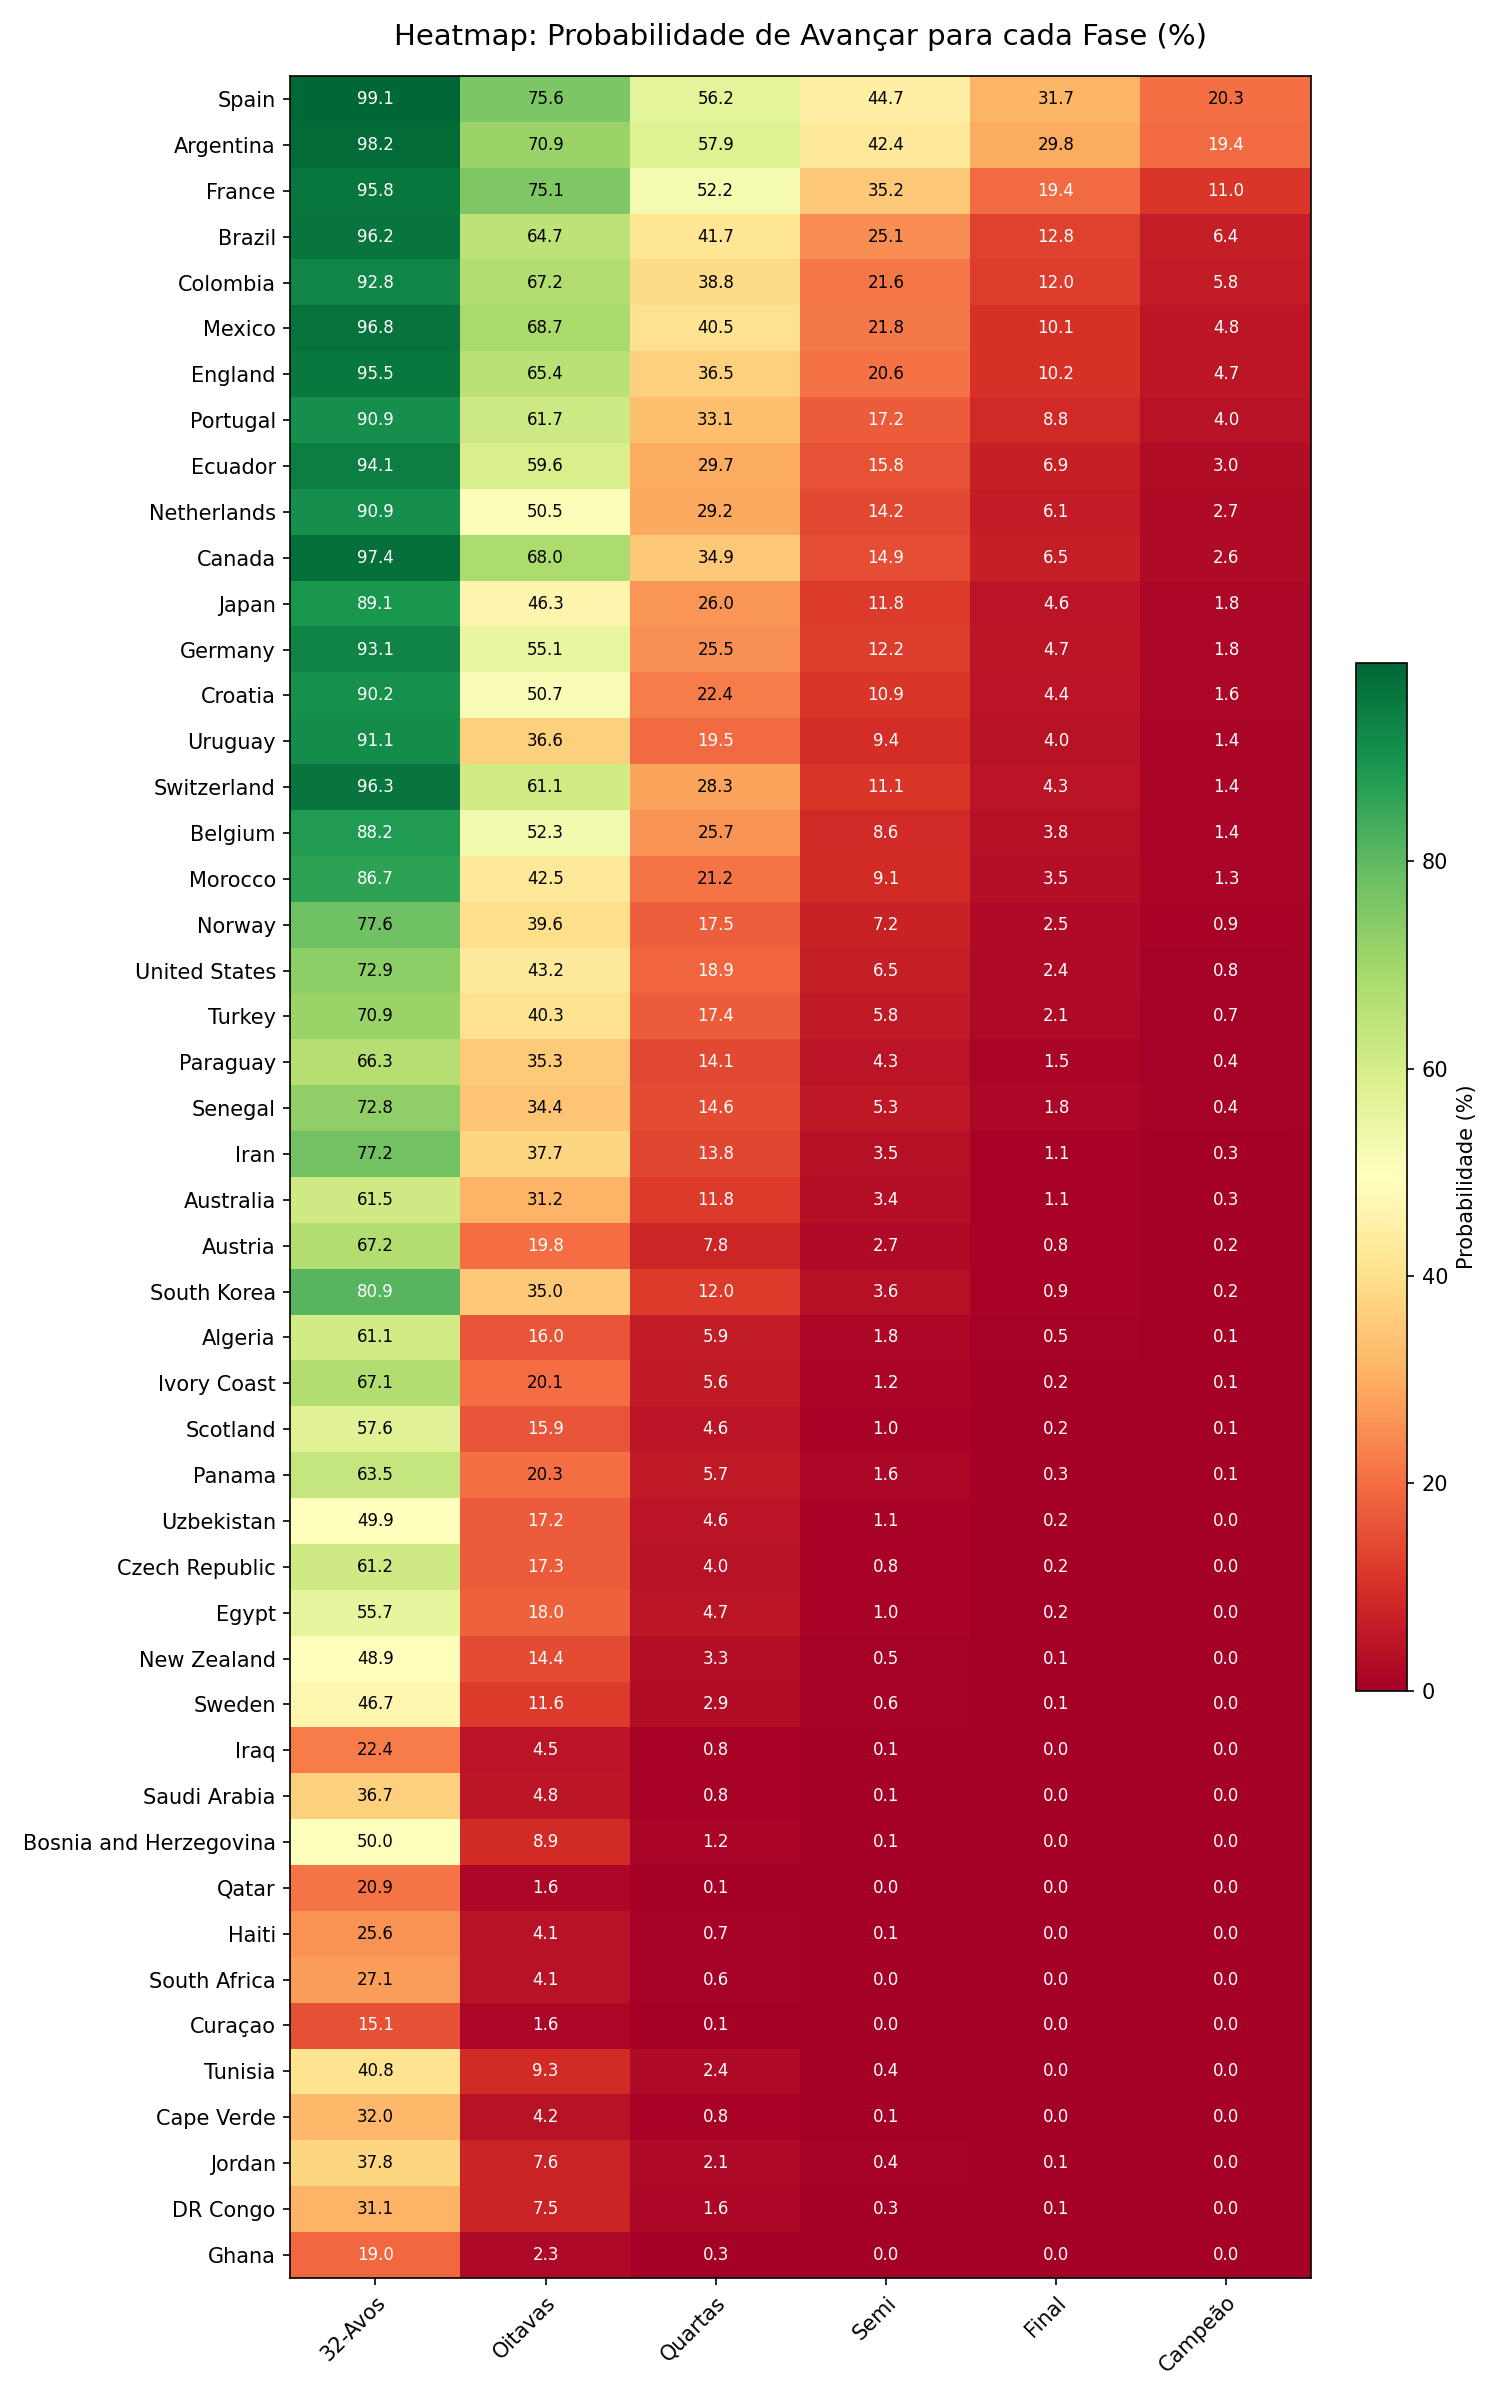
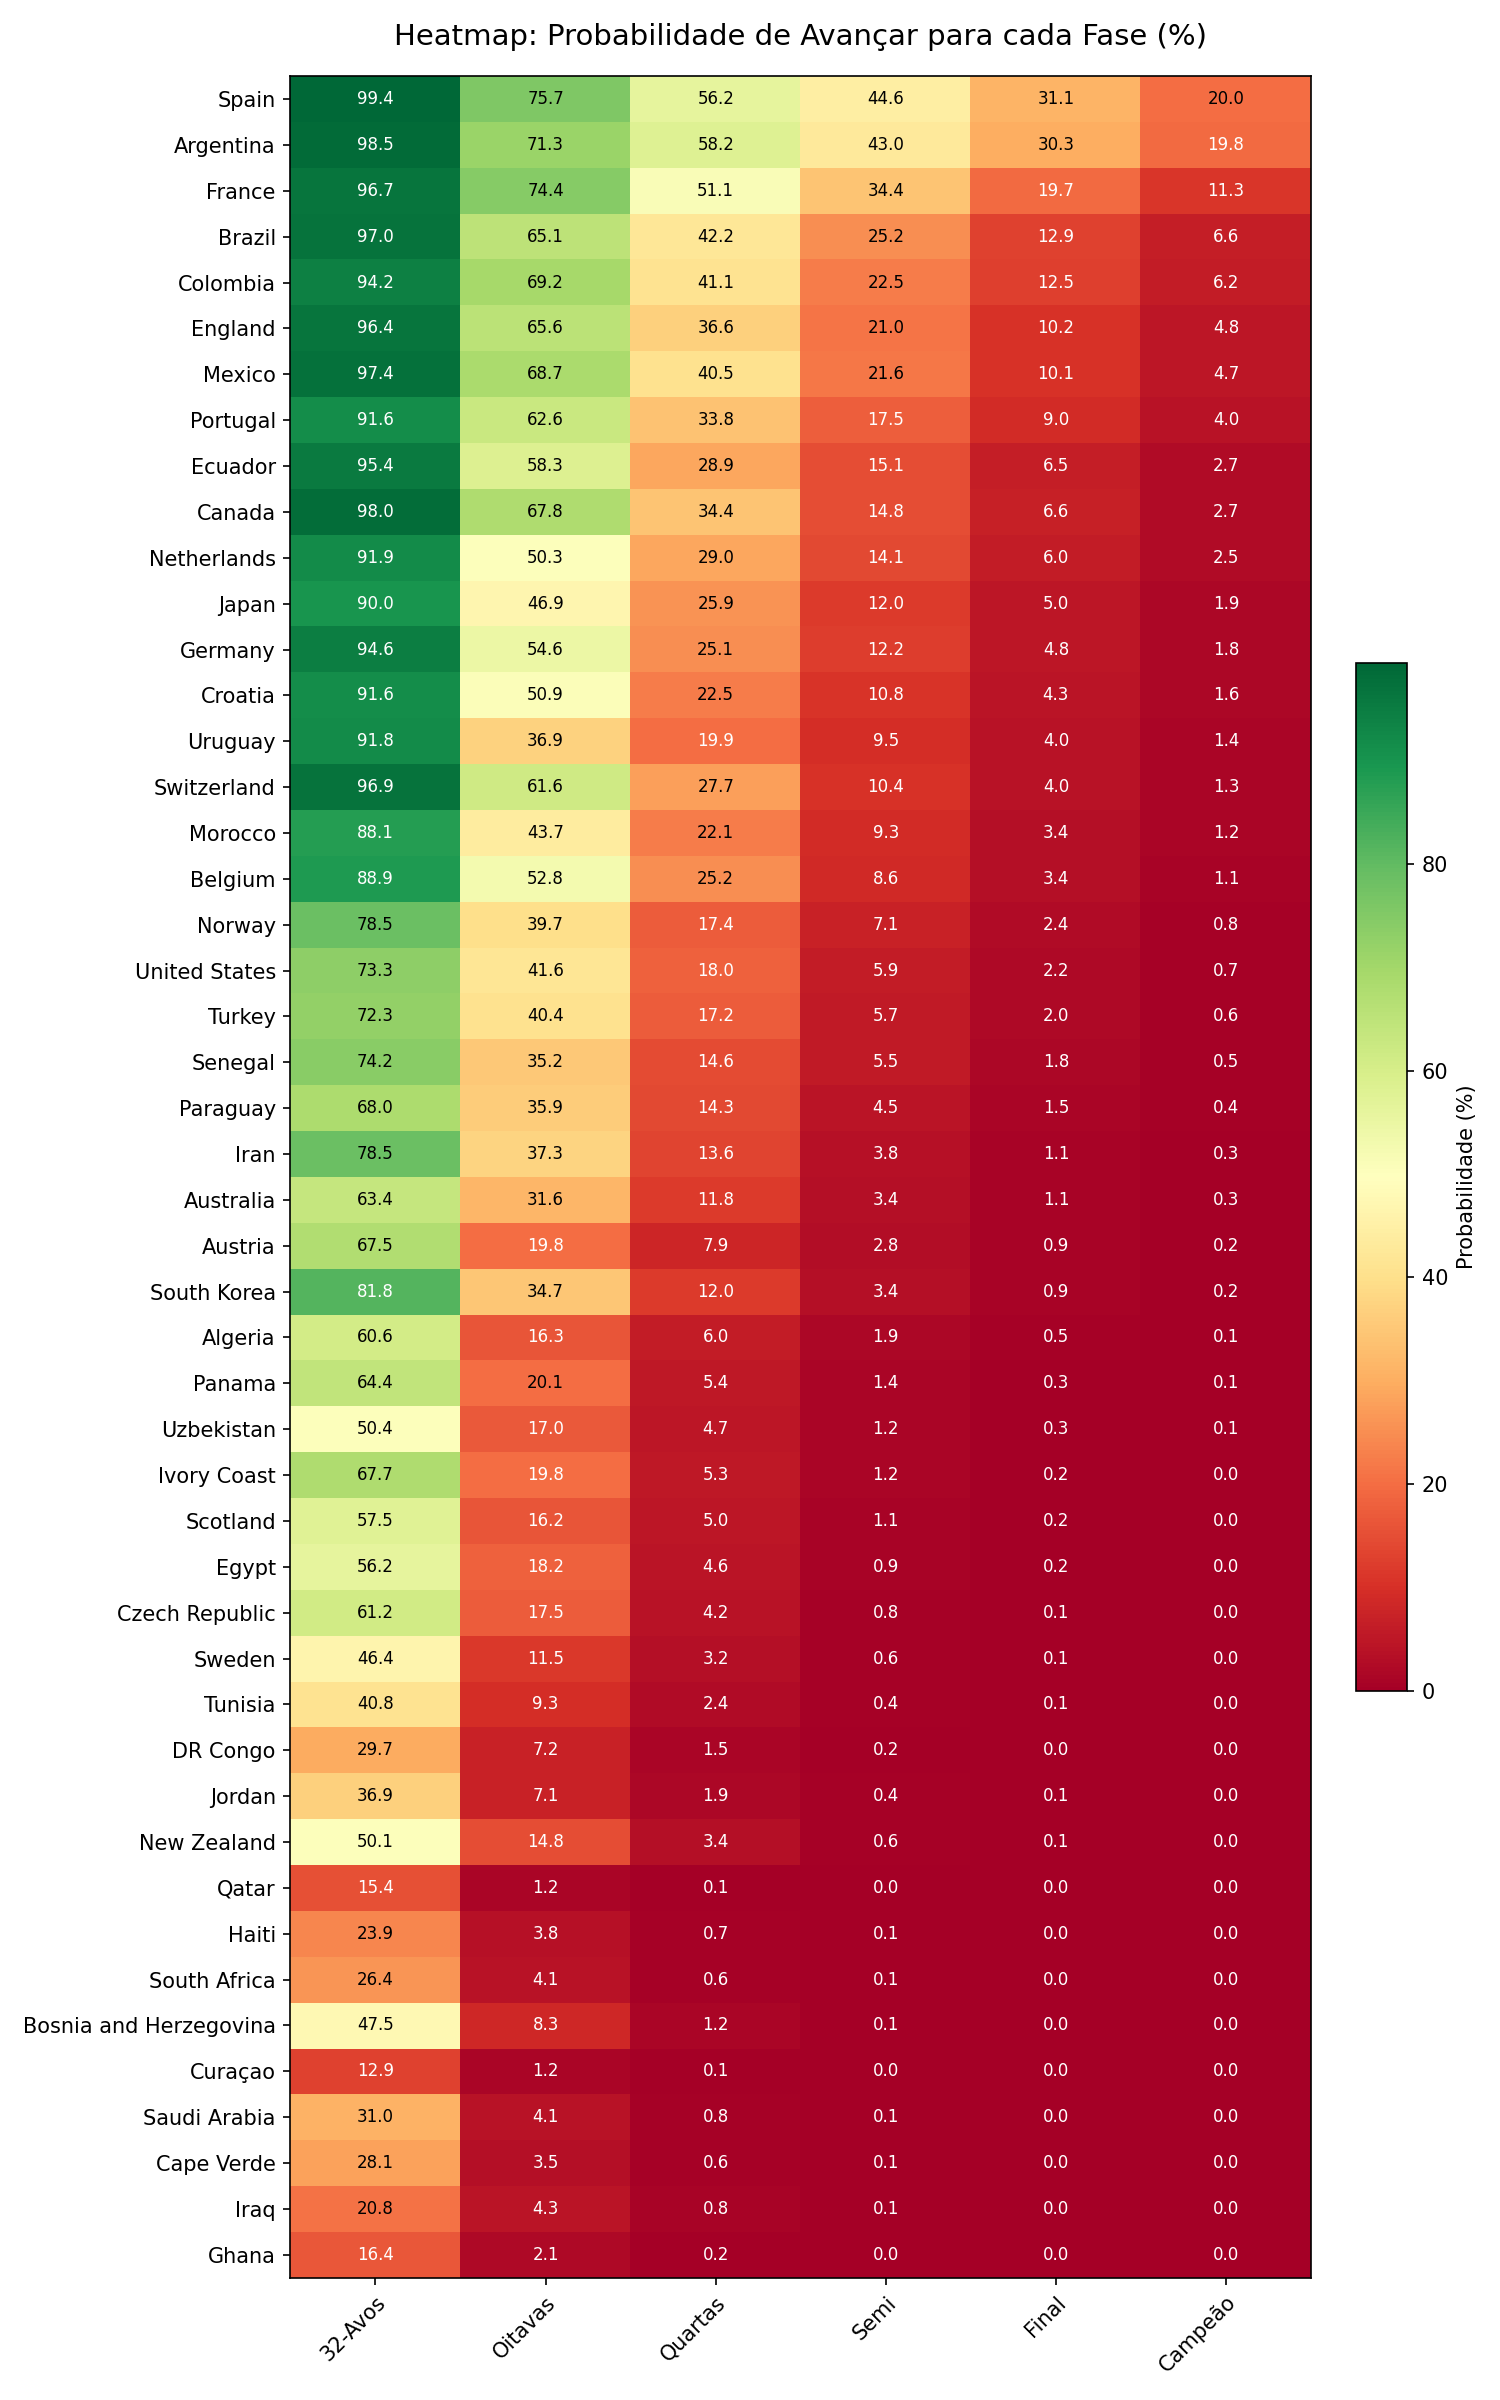
chore: atualizar simulação para 1M de iterações e atualizar documentação

diff --git a/modelo/simulate_copa.py b/modelo/simulate_copa.py
@@ -34,7 +34,7 @@ from matplotlib.colors import LinearSegmentedColormap
 # ─────────────────────────────────────────────────────────────────────
 # PARÂMETROS
 # ─────────────────────────────────────────────────────────────────────
-N_SIMULATIONS = 10_000
+N_SIMULATIONS = 1_000_000
 CONFIDENCE_Z  = 1.96
 MAX_GOALS     = 9       # placares 0..8
 import os

diff --git a/README.md b/README.md
@@ -57,7 +57,7 @@ Plataforma profissional para gerenciamento de bolão da Copa do Mundo 2026, com 
 - `fit_priors.py`: Otimiza parâmetros globais Dixon-Coles via MLE.
 - `train_model.py`: Treina rede GRU para fatores K-att/K-def por time.
 - `analyze_groups.py`: Gera heatmaps e CSV analítico da fase de grupos.
-- `simulate_copa.py`: Simulação Monte Carlo (10k+) de todo o torneio.
+- `simulate_copa.py`: Simulação Monte Carlo de todo o torneio.
 - `/results`: Artefatos (JSON/CSV) gerados pelas simulações que alimentam a UI.
 
 ### `css/`
@@ -112,13 +112,13 @@ O sistema utiliza uma lógica de **pontos brutos** que são posteriormente multi
 
 ### 1. Pontuação por Jogo (Fase de Grupos)
 
-|   Pontos   | Critério de Acerto          | Descrição Detalhada                                                                                                                    |
-| :---------: | :--------------------------- | :--------------------------------------------------------------------------------------------------------------------------------------- |
-| **8** | **Placar Exato Alto**  | Acerto do placar exato em jogos com 4 ou mais gols (ex: 2x2, 3x1, 4x0).                                                                  |
-| **6** | **Placar Exato Baixo** | Acerto do placar exato em jogos com menos de 4 gols (ex: 1x0, 2x1, 0x0).                                                                 |
-| **4** | **Resultado + Bônus** | Acertou o vencedor ou empate, errou o placar, mas acertou a **Diferença de Gols** OU acertou os **Gols de um dos times**. |
-| **3** | **Apenas Resultado**   | Acertou apenas o vencedor ou que seria empate, errando o placar e os bônus acima.                                                       |
-| **0** | **Erro Total**         | Errou o vencedor ou o fato de ser empate.                                                                                                |
+|   Pontos   | Critério de Acerto          | Descrição Detalhada                                                                                                                  |
+| :---------: | :--------------------------- | :------------------------------------------------------------------------------------------------------------------------------------- |
+| **8** | **Placar Exato Alto**  | Acerto do placar exato em jogos com 4 ou mais gols (ex: 2x2, 3x1, 4x0).                                                                |
+| **6** | **Placar Exato Baixo** | Acerto do placar exato em jogos com menos de 4 gols (ex: 1x0, 2x1, 0x0).                                                               |
+| **4** | **Resultado + Bônus** | Acertou o vencedor ou empate, errou o placar, mas acertou a**Diferença de Gols** OU acertou os **Gols de um dos times**. |
+| **3** | **Apenas Resultado**   | Acertou apenas o vencedor ou que seria empate, errando o placar e os bônus acima.                                                     |
+| **0** | **Erro Total**         | Errou o vencedor ou o fato de ser empate.                                                                                              |
 
 ### 2. Multiplicadores de Fase
 

diff --git a/CLAUDE.md b/CLAUDE.md
@@ -46,7 +46,7 @@
   - `fit_priors.py`: Otimiza parâmetros globais Dixon-Coles via MLE.
   - `train_model.py`: Treina rede GRU para fatores K-att/K-def por time.
   - `analyze_groups.py`: Gera heatmaps e CSV analítico da fase de grupos.
-  - `simulate_copa.py`: Simulação Monte Carlo (10k+) de todo o torneio.
+  - `simulate_copa.py`: Simulação Monte Carlo de todo o torneio.
 - `css/`:
   - `style.css`: Design System completo, tokens e layout Mobile-First.
 
